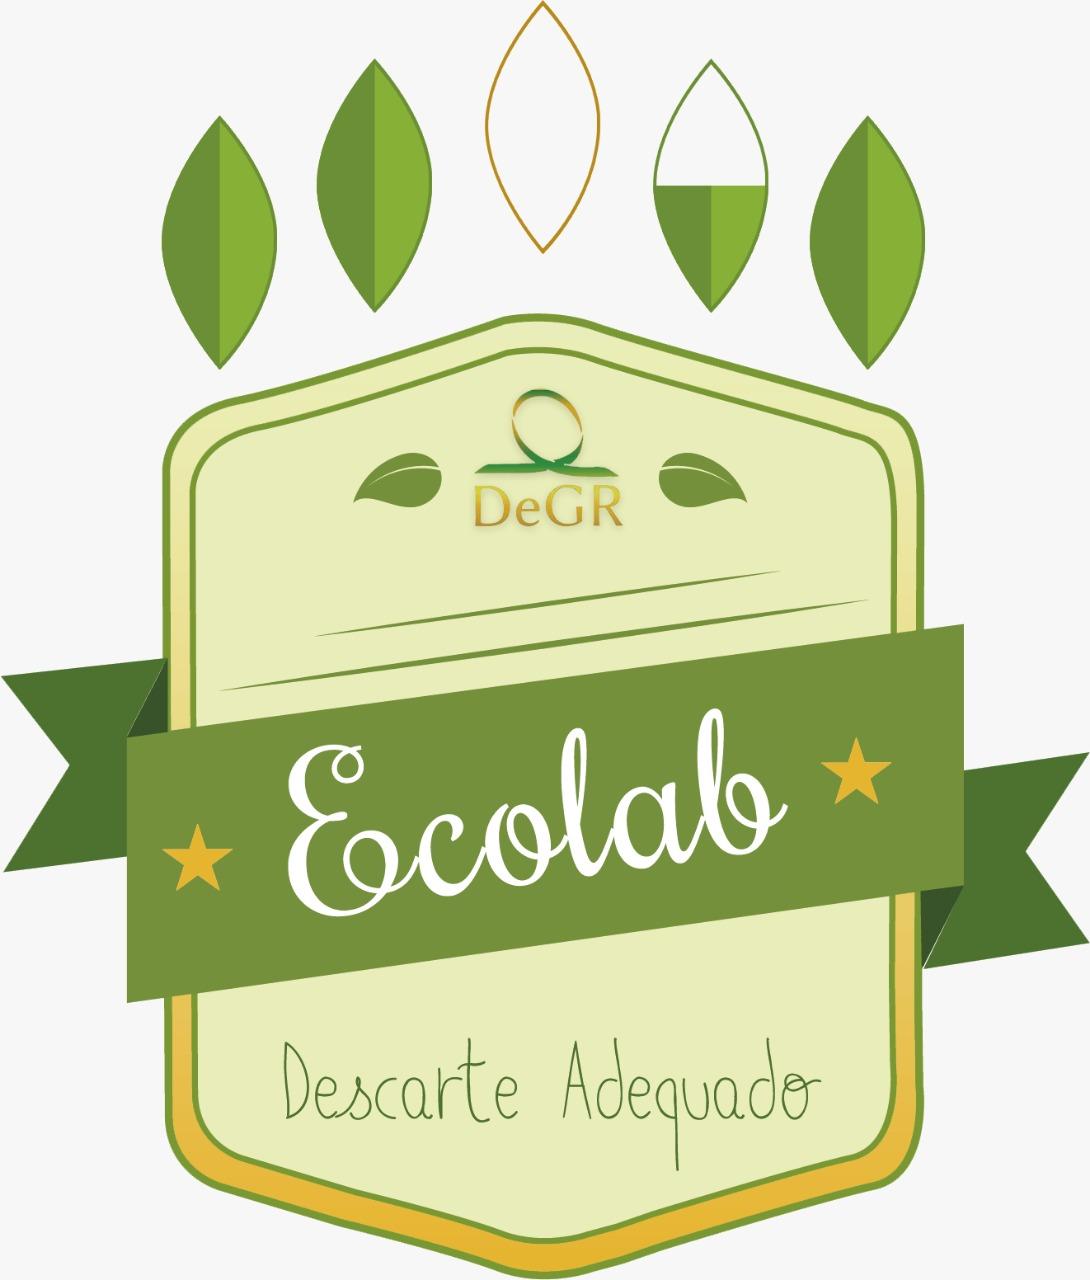
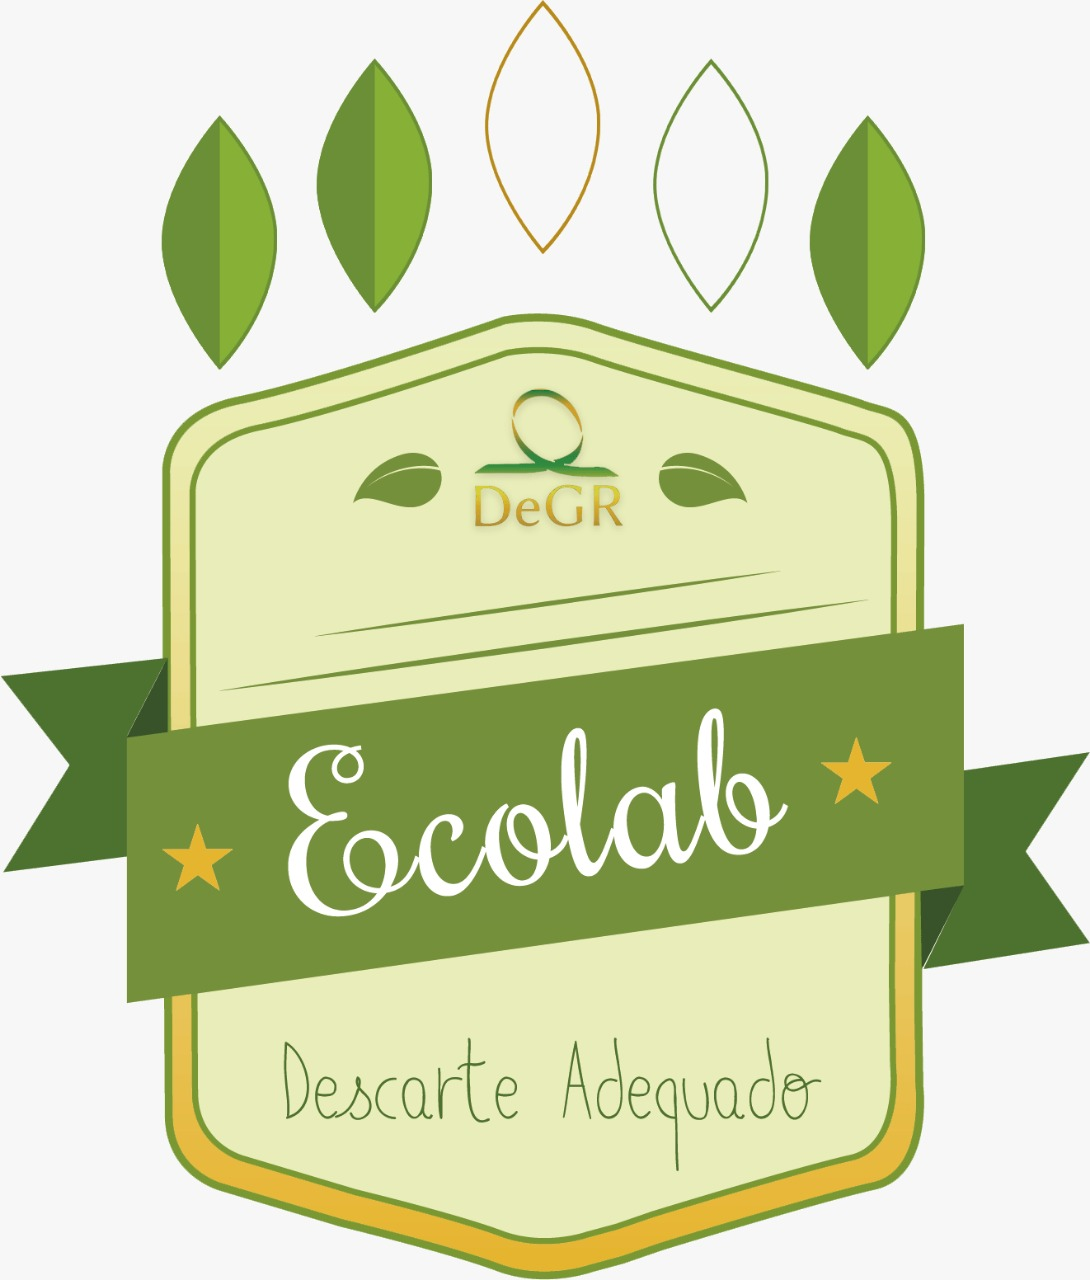
consertando bugs.

Changed region(s): [[0.5927, 0.125, 0.7174, 0.25]]

diff --git a/stats/views.py b/stats/views.py
@@ -52,7 +52,7 @@ def user_stats(request):
 
         'reagents': reagents,
 
-        'img': f'images/ecoselo/file{round(grade)}.jpeg',
+        'img': f'images/ecoselo/file{round(grade) - 1}.jpeg',
 
         'amount': amount,
         'most_common': most_common,
